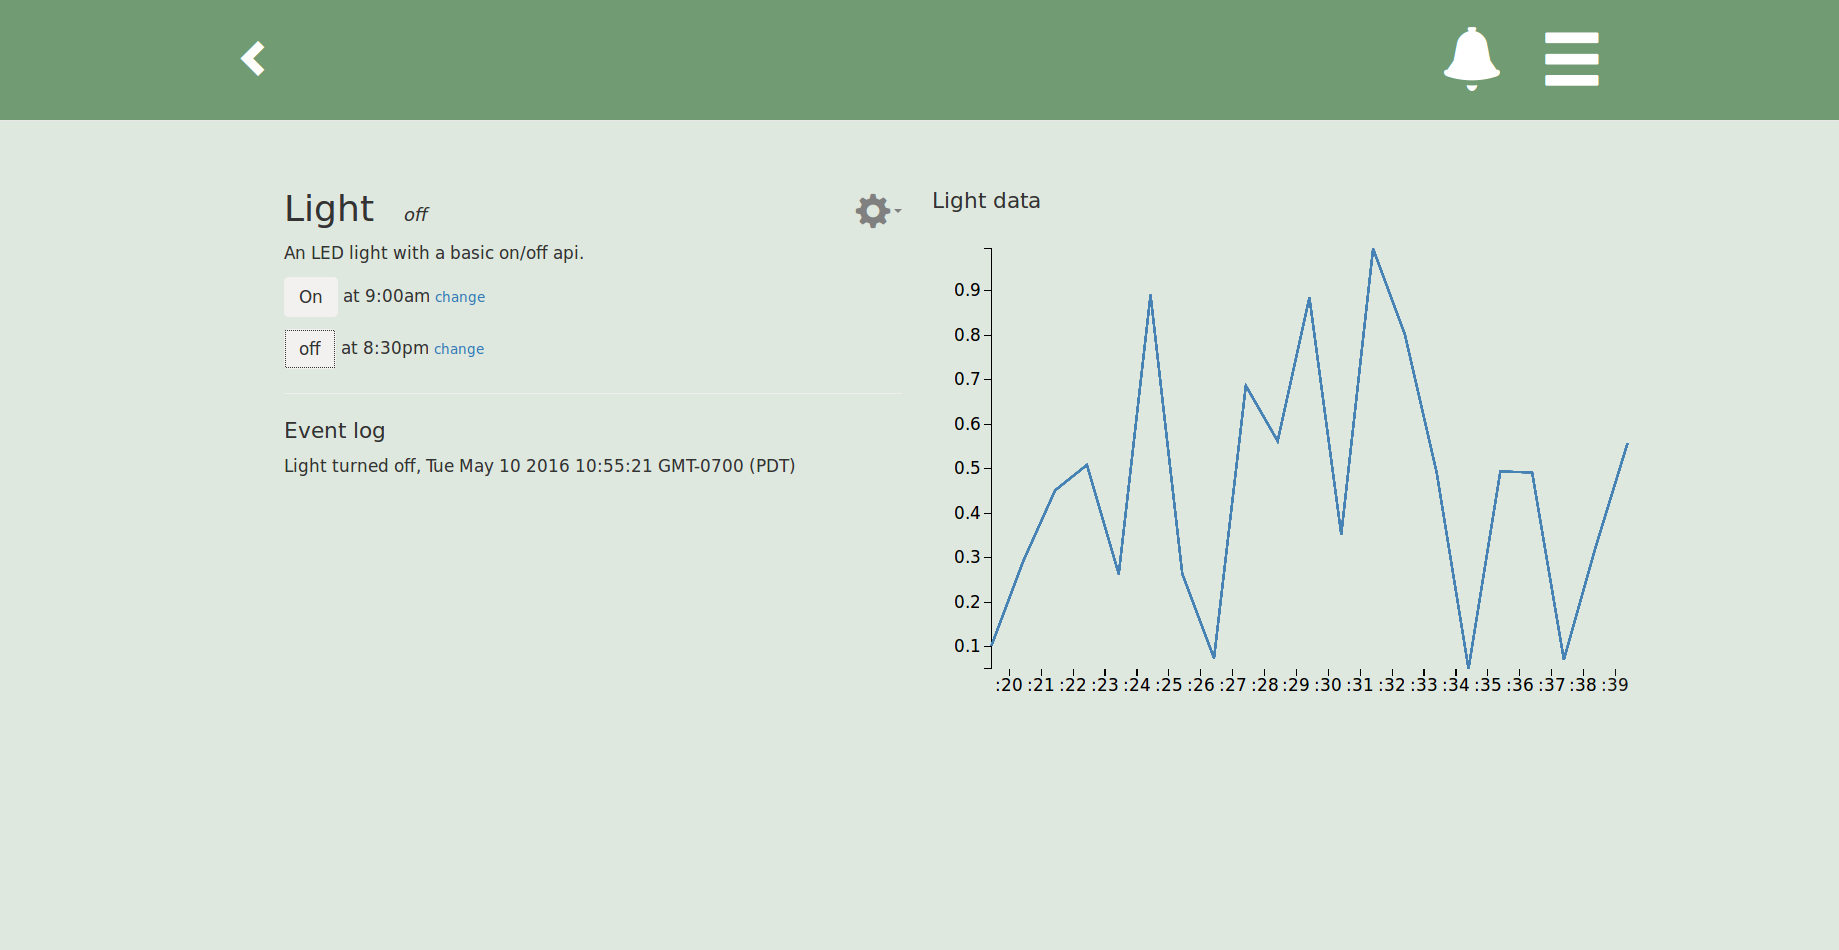
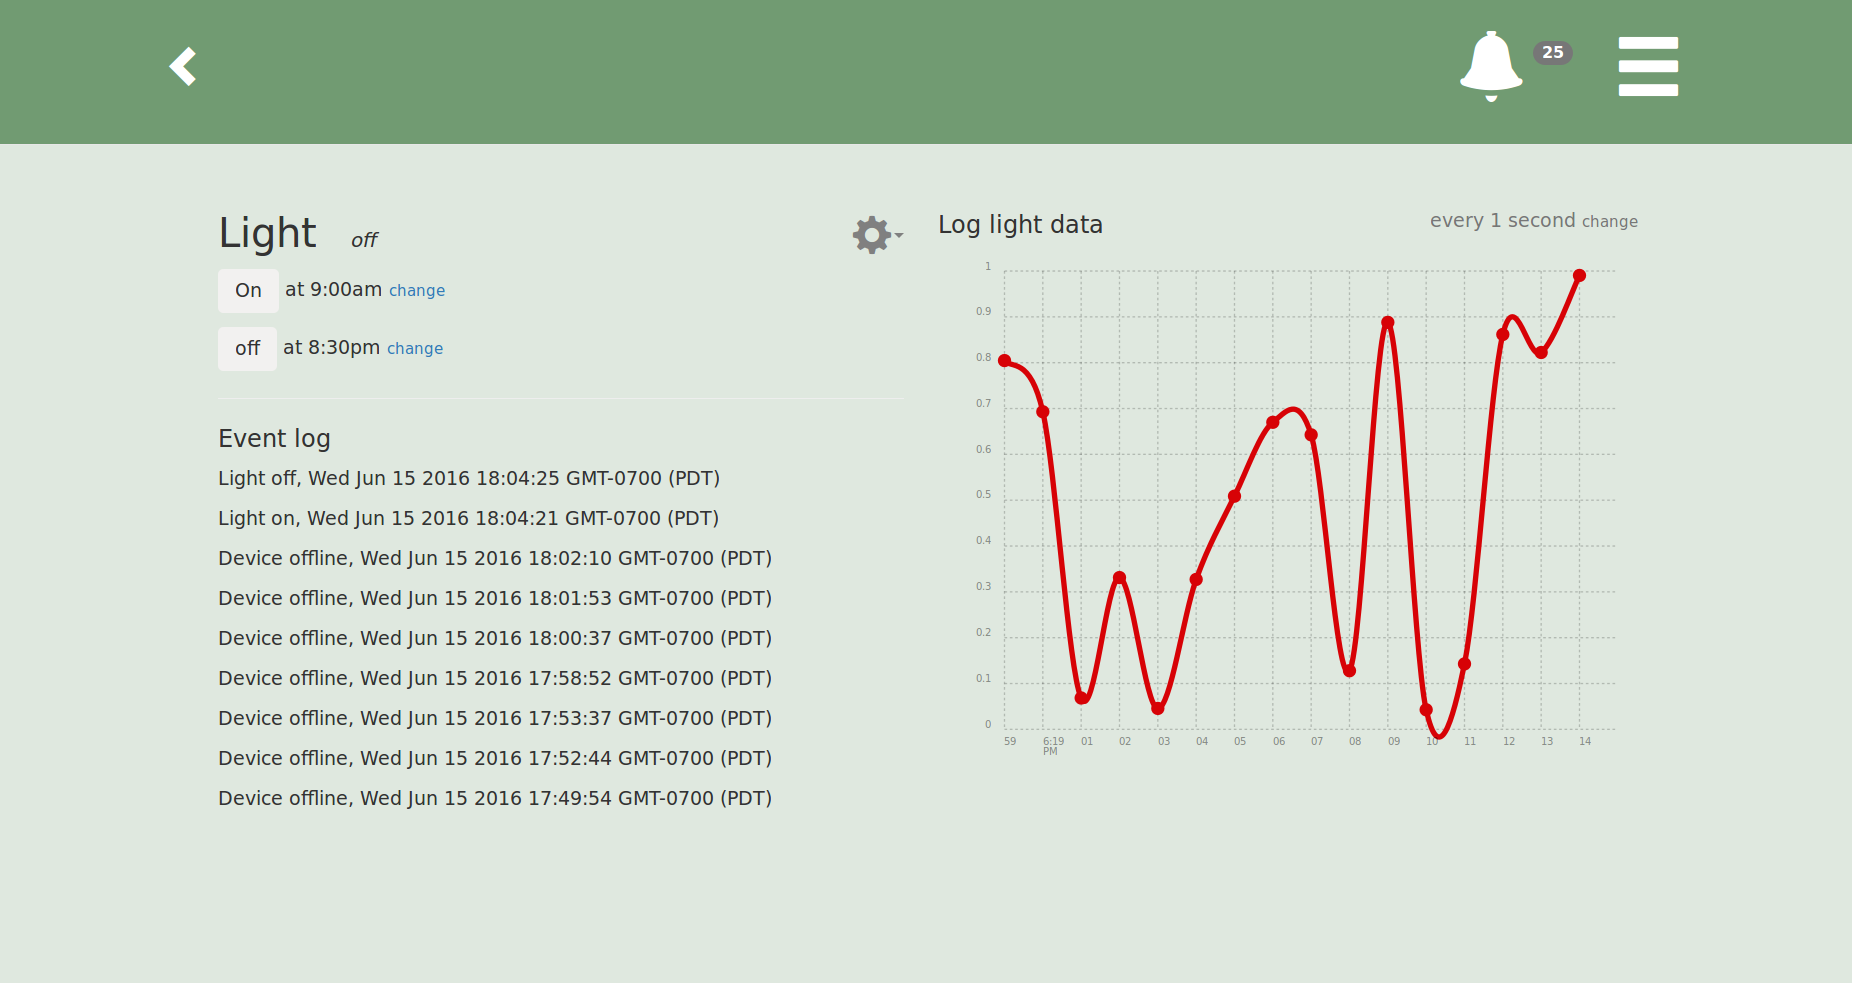
Update example.

diff --git a/packages/app/devices/components/scheduler.js b/packages/app/devices/components/scheduler.js
@@ -1,0 +1,46 @@
+import later from 'meteor-later';
+
+Device.Scheduler = class Scheduler extends Device.ActionComponent {
+  onCreated() {
+    super.onCreated();
+
+    return this.type = Template.currentData().type;
+  }
+
+  events() {
+    return super.events().concat({
+      ['click .schedule'](e) {
+        e.preventDefault();
+        let actionID = e.currentTarget.dataset.id;
+        let newSchedule = $('[name="schedule-' + actionID + '"]').val();
+        
+        // Todo: validate new schedule
+        try {
+         later.parse.text(newSchedule);
+        } catch (error) {
+          console.log(error);
+        }
+
+        let options = {
+          actionKey: actionID,
+          newValue: newSchedule
+        };
+        return Meteor.call('Device.sendCommand',
+          this.currentDeviceUuid(),
+          'updateActionSchedule',
+          options,
+          (error, documentId) => {
+            if (error) {
+              console.error("New deviceerror", error);
+              return alert(`New deviceerror: ${error.reason || error}`);
+            }
+
+            Bert.alert('Schedule updated', 'success', 'growl-top-right');
+          }
+        );
+      }
+    });
+  }
+};
+
+Device.Scheduler.register('Device.Scheduler');

diff --git a/packages/app/devices/components/scheduler.html b/packages/app/devices/components/scheduler.html
@@ -1,0 +1,26 @@
+<template name="Device.Scheduler">
+	{{schedule}} 
+	<a data-toggle="modal" data-target="#helpmodal-{{id}}" class="small">change</a>
+	
+	<!-- Help button and modal -->
+  <div class="modal fade" id="helpmodal-{{id}}" tabindex="-1" role="dialog" aria-labelledby="myModalLabel" aria-hidden="true">
+    <div class="modal-dialog">
+      <div class="modal-content">
+        <div class="modal-header">
+          <button type="button" class="close" data-dismiss="modal" aria-label="Close"><span aria-hidden="true">&times;</span></button>
+          <h4 class="modal-title">Schedule action</h4>
+        </div>
+        <div class="modal-body">
+        	<form>
+        		<p>{{description}}</p>
+        			<input type="text"
+        				   name="schedule-{{id}}"
+        				   value="{{schedule}}">
+        		 	<button class="btn btn-primary schedule" data-id="{{id}}" data-toggle="modal" data-target="#helpmodal-{{id}}">Update</button>
+              <button class="btn btn-default" data-dismiss="modal" aria-label="Cancel">Cancel</button>
+        	</form>
+        </div><!-- /.modal-body -->
+      </div><!-- /.modal-content -->
+    </div><!-- /.modal-dialog -->
+  </div><!-- /.modal-fade -->
+</template>
